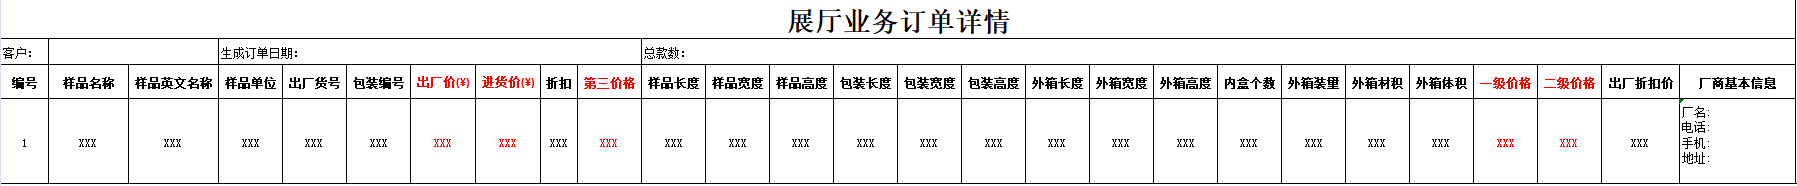
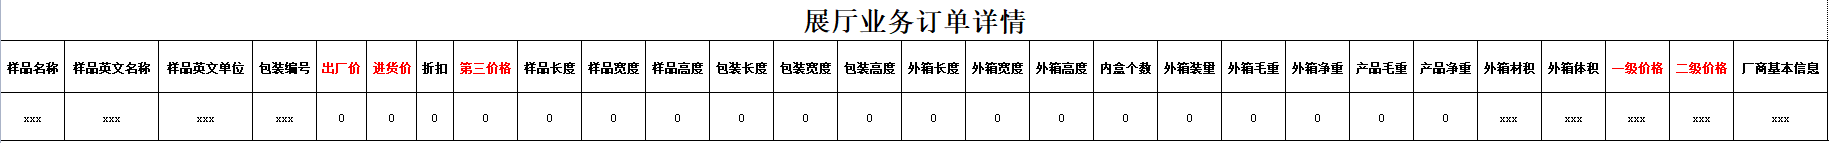
更新导出模板

diff --git a/toys-bear-pc/src/views/bsPage/bsSiteSharing/bsCustomerOrder/BsCustomerOrder.vue b/toys-bear-pc/src/views/bsPage/bsSiteSharing/bsCustomerOrder/BsCustomerOrder.vue
@@ -75,47 +75,6 @@
     </div>
     <div class="tableBox">
       <bsTables :table="tableData" />
-      <!-- <el-table
-        :data="tableData"
-        style="width: 100%"
-        :header-cell-style="{ backgroundColor: '#f9fafc' }"
-      >
-        <el-table-column
-          prop="totalAmount"
-          label="总价"
-          width="150"
-          align="center"
-        >
-          <template slot-scope="scope">
-            <span style="color: #ff0b00">
-              {{ scope.row.totalAmount }}
-            </span>
-          </template>
-        </el-table-column>
-        <el-table-column
-          prop="createdOn"
-          label="下单时间"
-          width="150"
-          align="center"
-        >
-          <template slot-scope="scope">
-            <span>
-              {{ scope.row.createdOn.replace(/T/, " ") }}
-            </span>
-          </template>
-        </el-table-column>
-        <el-table-column label="操作" align="center" width="150">
-          <template slot-scope="scope">
-            <el-button
-              style="margin-right: 10px"
-              size="mini"
-              type="warning"
-              @click="openSelectTemplate(scope.row)"
-              >导出</el-button
-            >
-          </template>
-        </el-table-column>
-      </el-table> -->
       <center style="padding: 20px 0">
         <el-pagination
           layout="total, sizes, prev, pager, next, jumper"

diff --git a/toys-bear-pc/src/components/loginComponents/LoginForm.vue b/toys-bear-pc/src/components/loginComponents/LoginForm.vue
@@ -242,9 +242,7 @@ export default {
 
             switch (res.data.result.commparnyList[0].companyType) {
               // case "Admin":
-              //   break;
               // case "Supplier":
-              //   break;
               // case "Exhibition":
               case "Sales":
                 this.$store.commit("updateActiveTab", this.bsHome);
@@ -379,9 +377,7 @@ export default {
               console.log(res.data.result.commparnyList);
               switch (res.data.result.commparnyList[0].companyType) {
                 // case "Admin":
-                //   break;
                 // case "Supplier":
-                //   break;
                 // case "Exhibition":
                 case "Sales":
                   this.$store.commit("updateActiveTab", this.bsHome);

diff --git a/toys-bear-pc/src/views/bsPage/bsBusinessManage/bsSampleQuotation/components/bsSampleQuotationDetails.vue b/toys-bear-pc/src/views/bsPage/bsBusinessManage/bsSampleQuotation/components/bsSampleQuotationDetails.vue
@@ -7,8 +7,8 @@
     ></bsSampleQuotationTopComponent>
     <div class="bsSampleTable">
       <div class="top">
-        <div class="left">报价产品列表({{ tableData.length }})</div>
-        <div class="right" v-if="tableData.length > 0">
+        <div class="left">报价产品列表({{ tableData.data.length }})</div>
+        <div class="right" v-if="tableData.data.length > 0">
           <el-button @click="exportOrder()" type="warning"> 导出列表</el-button>
         </div>
       </div>
@@ -317,6 +317,7 @@ export default {
             color: "#3368a9",
             align: "left",
             isHiden: true,
+            infoBox: true,
             productInfo: true,
             elImage: row => {
               return row.imgUrlList;

diff --git a/toys-bear-pc/src/views/loginPage/LoginConfirm.vue b/toys-bear-pc/src/views/loginPage/LoginConfirm.vue
@@ -190,10 +190,8 @@ export default {
           };
           switch (item.companyType) {
             // case "Admin":
-            //   break;
             // case "Supplier":
-            //   break;
-            case "Exhibition":
+            // case "Exhibition":
             case "Sales":
               this.$store.commit("updateActiveTab", fd);
               this.$store.commit("closeTabAll", this.$router);
